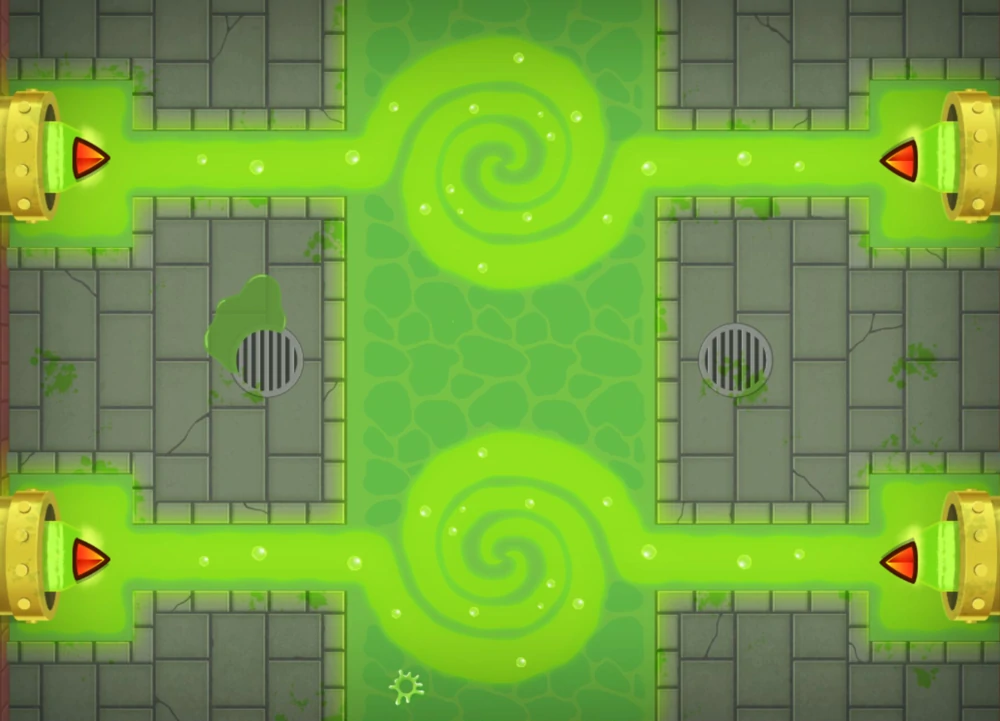
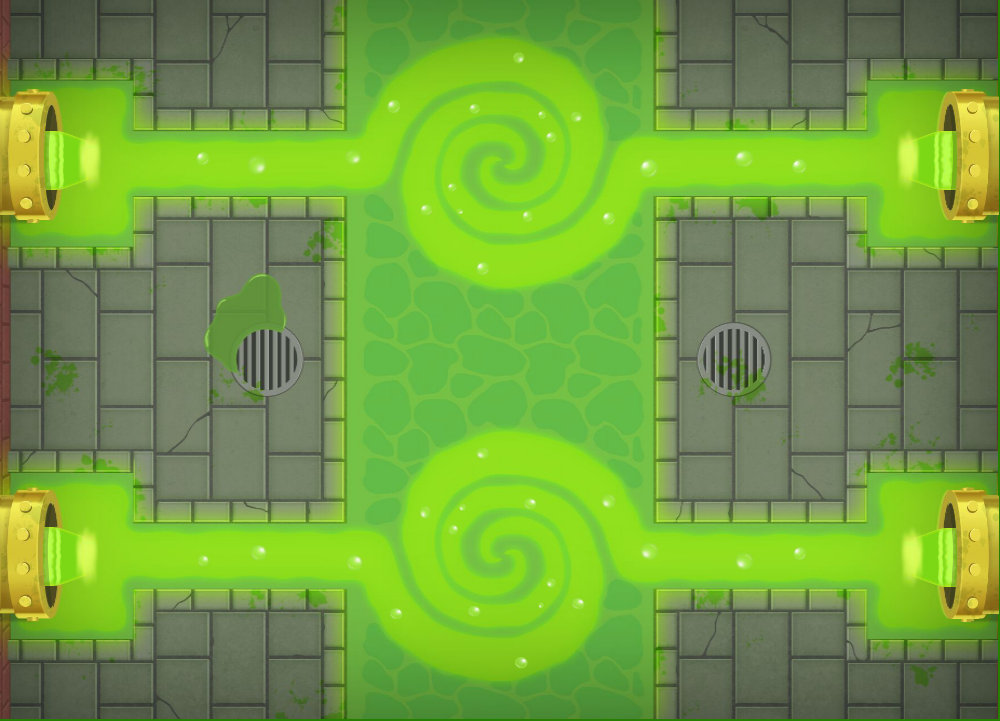
improved image

diff --git a/toxic_waste/README.md b/toxic_waste/README.md
@@ -1,2 +1,4 @@
 replaces #ouch.
 
+
+credit to Mr.Nuke for the improved image
